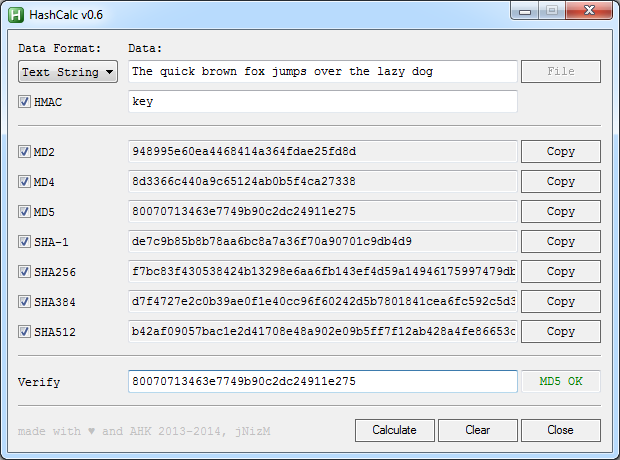
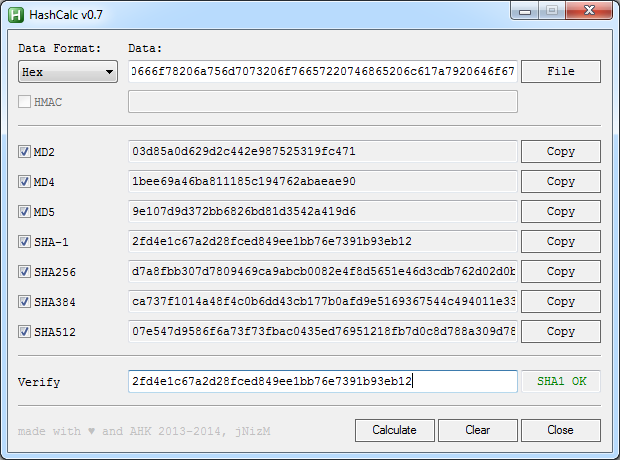
Update to v0.7
Update README
Update Screenshot
Update src\HashCalc

diff --git a/README.md b/README.md
@@ -1,9 +1,9 @@
 # HashCalc by jNizM
-Calculate hash from string or file via AutoHotkey
+Calculate hash from string, hex or file via AutoHotkey
 
 
 ## Features
-* Generate hash value from string or file
+* Generate hash value from string, hex or file
 * Secure-Salted function
 * Verify hash
 
@@ -21,11 +21,12 @@ Calculate hash from string or file via AutoHotkey
 
 
 ## Info
-* Version: v0.6
+* Version: v0.7
 * URL: [AHK Thread](http://ahkscript.org/boards/viewtopic.php?f=6&t=87)
 
 
 ## Changelog
+* 0.7 | Added CalcHexHash()
 * 0.6 | Change Salt to HMAC funtion
 * 0.5 | Added Drag&Drop File into Gui
 * 0.4 | Changed Hash functions to CalcAddrHash(), CalcStringHash() & CalcFileHash()
@@ -36,5 +37,6 @@ Calculate hash from string or file via AutoHotkey
 
 ## Contributing
 * thanks to Bentschi for his functions CalcAddrHash(), CalcStringHash() & CalcFileHash()
+* thanks to atnbueno for CalcHexHash()
 * thanks to just me for his translated function HMAC()
 * thanks to AutoHotkey Community
